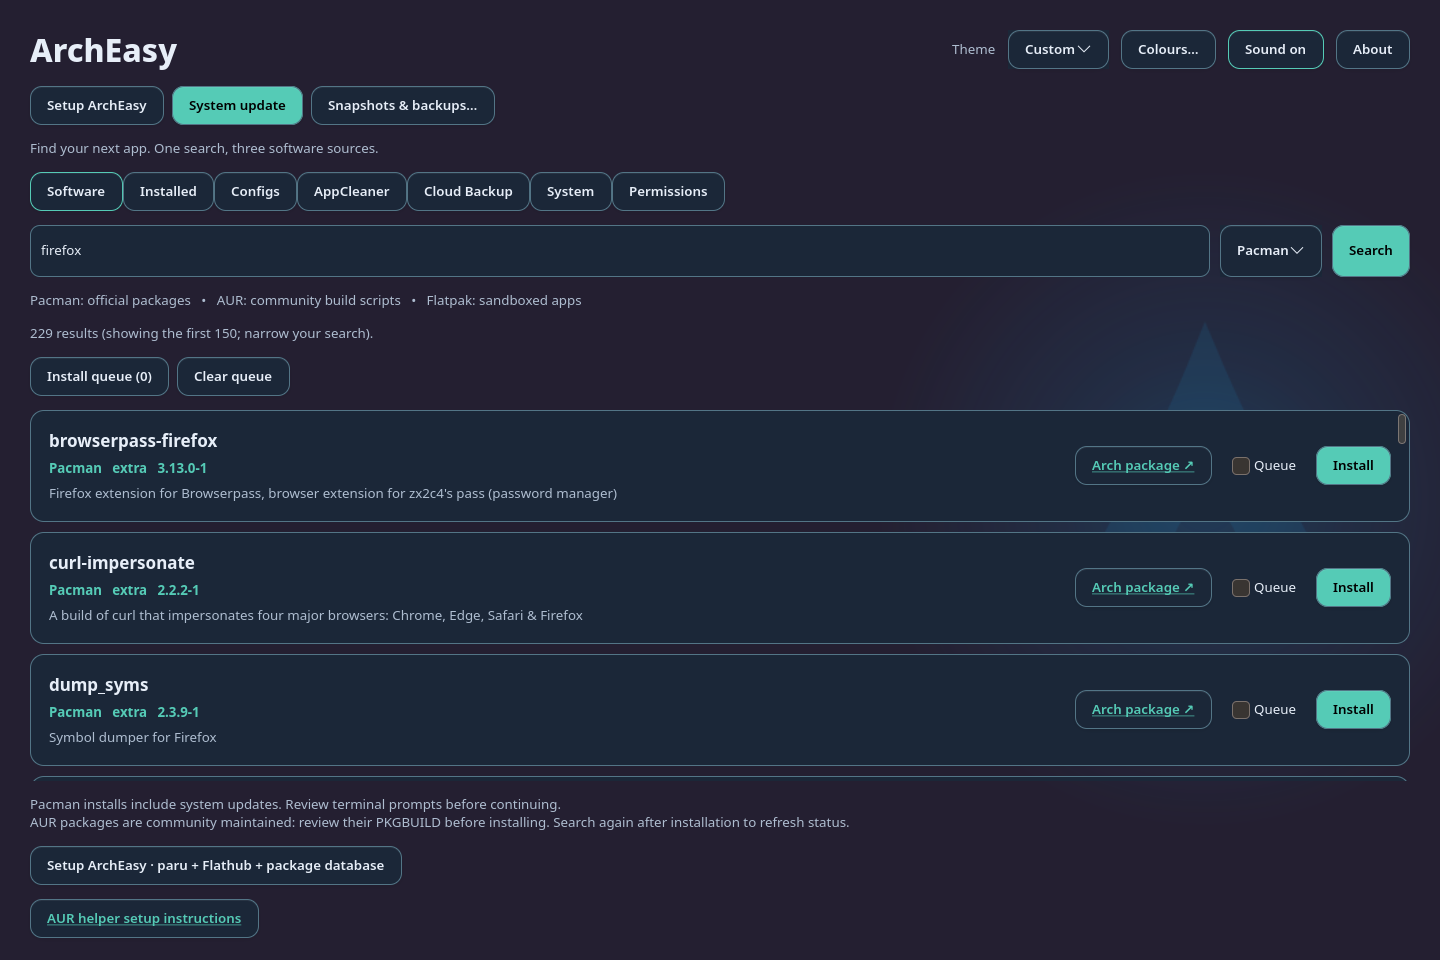
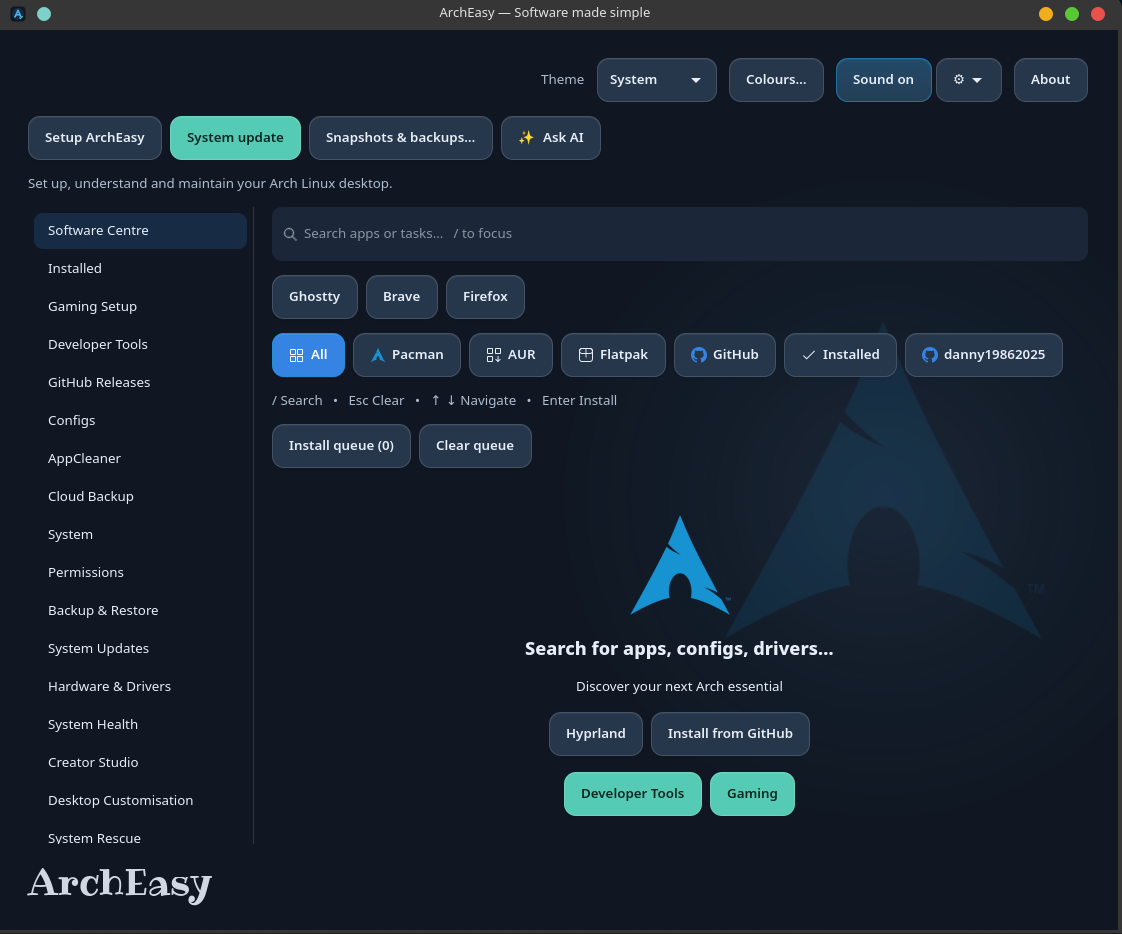
Update README Software Centre screenshot

diff --git a/README.md b/README.md
@@ -14,9 +14,9 @@ Diagnostics are read-only. Supported changes—Creator package installation, GNO
 
 ## Screenshots
 
-Store (the **Software Centre** page), searching official packages:
+The **Software Centre** home page, with the integrated workbench sidebar and quick access to app search, Developer Tools, and Gaming:
 
-![ArchEasy Store with Firefox search results](assets/screenshots/store.png)
+![ArchEasy Software Centre with the integrated workbench sidebar](assets/screenshots/store.png)
 
 Configs, with built-in presets and backup controls:
 
